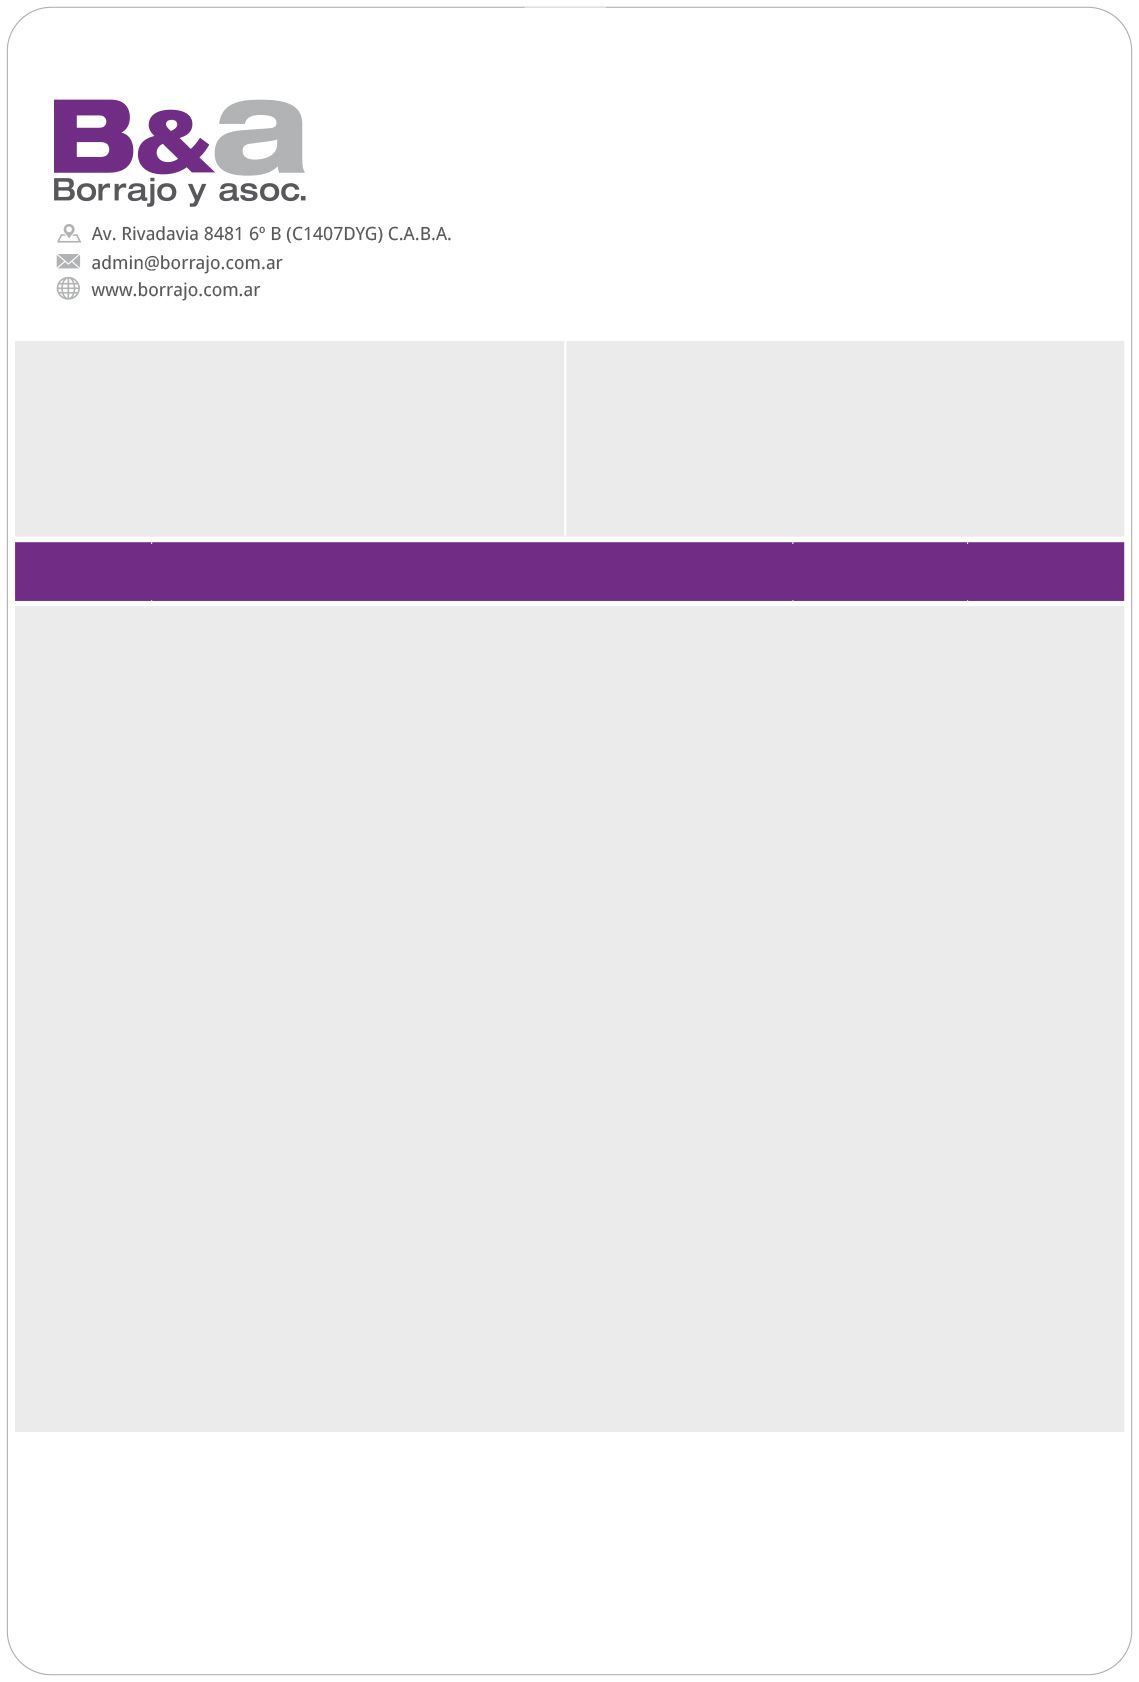
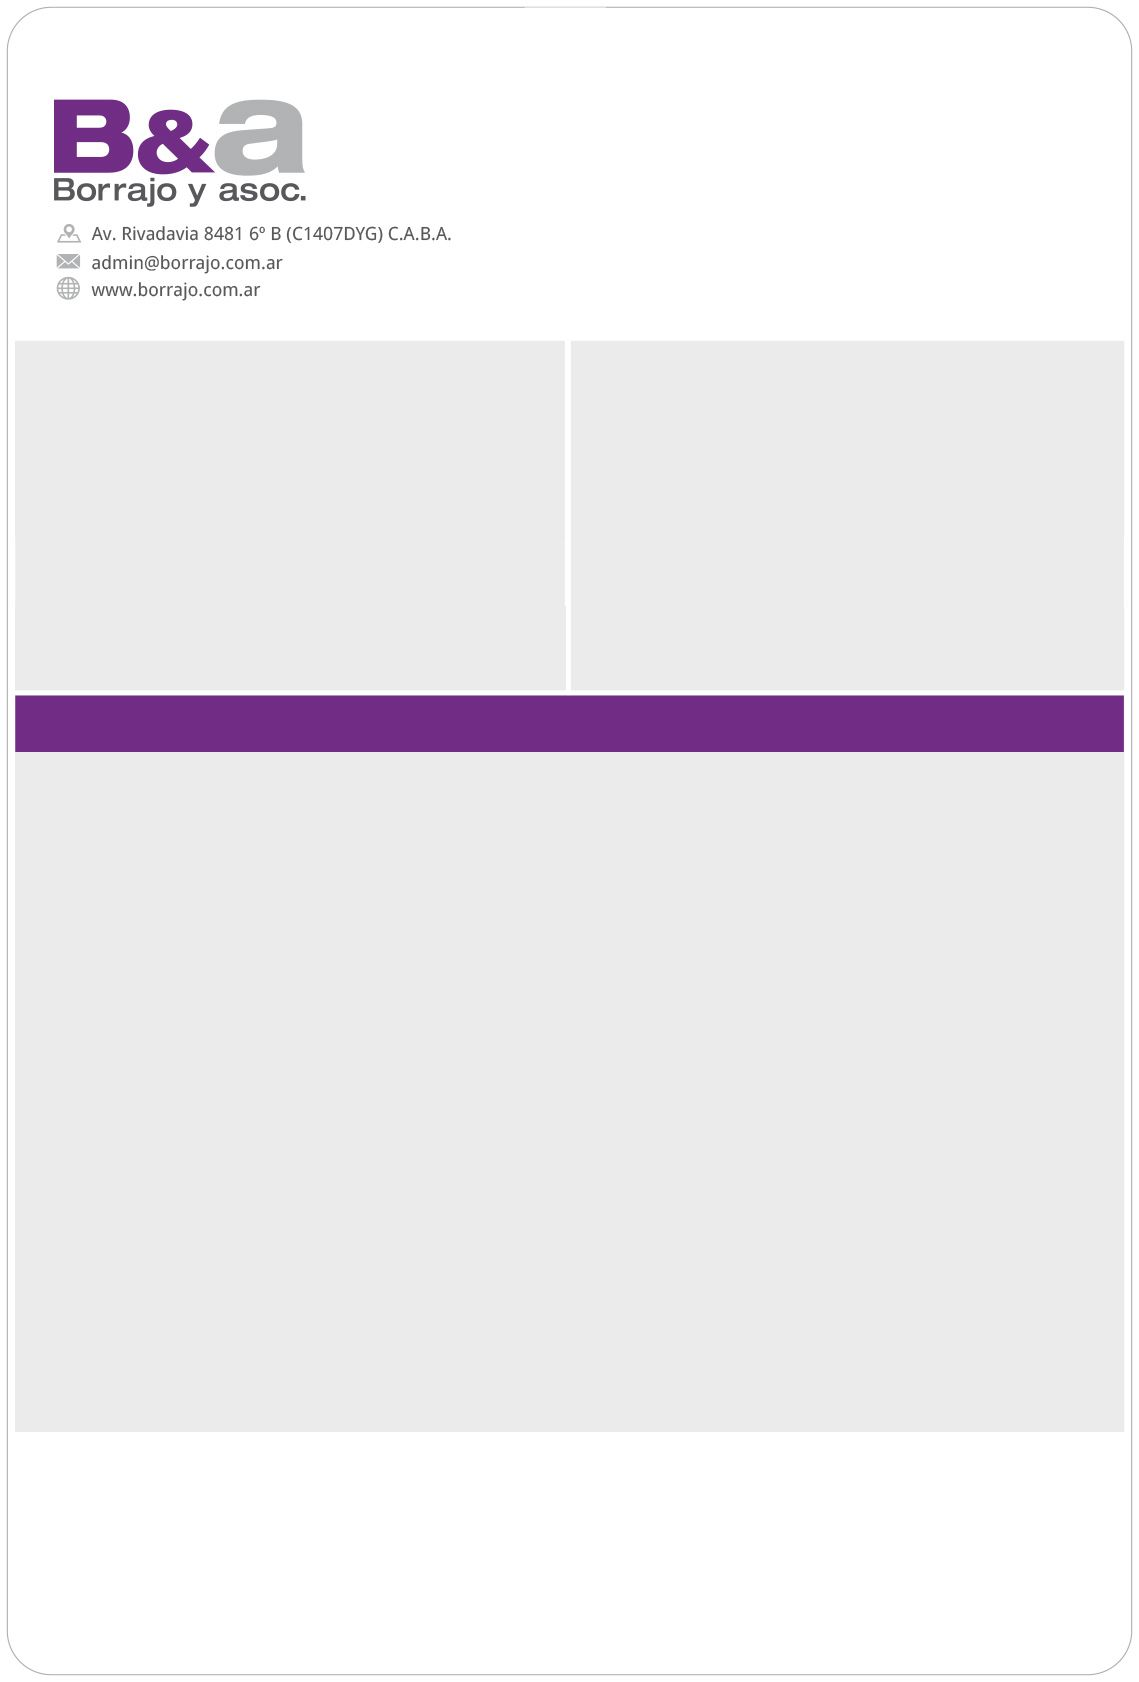
PDF: Modificado

Changed region(s): [[0.0, 0.3092, 1.0, 0.371], [0.0, 0.4019, 1.0, 0.4637]]

diff --git a/server.js b/server.js
@@ -748,7 +748,7 @@ app.post('/api/send-email', requireAuth, async (req, res) => {
 
         // 2. RECUADRO GRIS IZQUIERDO (Datos de la Tarea)
         const leftBoxX = 50;
-        const leftBoxY = 195;
+        const leftBoxY = 205;
         const boxWidth = 240;
         
         doc.fontSize(10).fillColor('#333333');
@@ -771,7 +771,7 @@ app.post('/api/send-email', requireAuth, async (req, res) => {
         doc.fontSize(9).font('Helvetica').text(task.Falla || 'Sin falla reportada', { width: boxWidth, align: 'justify' });
 
         // 4. DEBAJO DE FRANJA MORADA (Devolución)
-        const feedbackY = 330;
+        const feedbackY = 455;
         doc.fontSize(11).font('Helvetica-Bold').fillColor('#443891'); // Color morado para el título
         doc.text('DEVOLUCIÓN TÉCNICA', leftBoxX, feedbackY);
         
